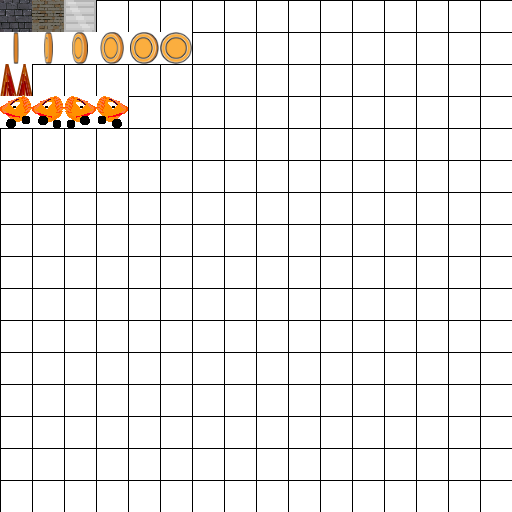
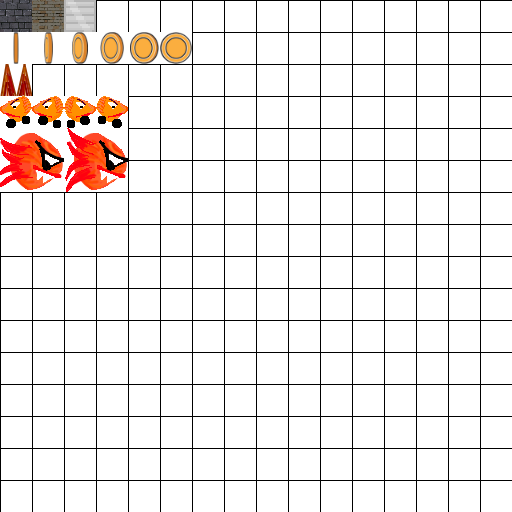
Boss added

Changed region(s): [[0.0, 0.25, 0.25, 0.375]]

diff --git a/src/main/Game.java b/src/main/Game.java
@@ -21,6 +21,7 @@ import handlers.SmartWallHandler;
 import handlers.SpikeHandler;
 import input.KeyInput;
 import objects.Block;
+import objects.Boss;
 import objects.Camera;
 import objects.Coin;
 import objects.Enemy;
@@ -40,6 +41,7 @@ public class Game extends Canvas implements Runnable
 	private BufferedImageLoader loader;
 	private KeyInput keyInput;
 	private Player player;
+	private Boss boss;
 	private BlockHandler blockHandler;
 	private CoinsHandler coinsHandler;
 	private CollisionHandler collisionHandler;
@@ -72,9 +74,10 @@ public class Game extends Canvas implements Runnable
 	}
 	
 	private void init()
-	{						
-			
-		player = new Player(70, 1250);
+	{									
+		//player = new Player(70, 1250);
+		player = new Player(55 * 32, 74 * 32);
+		boss = new Boss(42 * 32, 85 * 32, textures);
 		camera = new Camera(0, 0);
 		blockHandler = new BlockHandler();
 		coinsHandler = new CoinsHandler();
@@ -82,7 +85,7 @@ public class Game extends Canvas implements Runnable
 		spikeHandler = new SpikeHandler();
 		enemiesHandler = new EnemiesHandler();
 		smartWallHandler = new SmartWallHandler();
-		collisionHandler = new CollisionHandler(player, blockHandler, coinsHandler, bHandler, spikeHandler, 
+		collisionHandler = new CollisionHandler(player, boss, blockHandler, coinsHandler, bHandler, spikeHandler, 
 				enemiesHandler, smartWallHandler);
 
 		loader = new BufferedImageLoader();		
@@ -136,6 +139,7 @@ public class Game extends Canvas implements Runnable
 		{	
 			keyInput.tick(player, bHandler);
 			player.tick();
+			boss.tick();
 			camera.tick(player);			
 			hud.tick(player.getCoinsCollected(), player.getHealth());
 			coinsHandler.tick();
@@ -169,6 +173,7 @@ public class Game extends Canvas implements Runnable
 		g2d.translate(camera.getX(), camera.getY());
 		
 		player.render(g);
+		boss.render(g);
 		blockHandler.render(g);
 		coinsHandler.render(g);
 		bHandler.render(g);

diff --git a/src/handlers/CollisionHandler.java b/src/handlers/CollisionHandler.java
@@ -1,6 +1,7 @@
 package handlers;
 
 import objects.Block;
+import objects.Boss;
 import objects.Coin;
 import objects.Player;
 import objects.SmartWall;
@@ -8,6 +9,7 @@ import objects.SmartWall;
 public class CollisionHandler 
 {
 	private Player p;
+	private Boss boss;
 	private BlockHandler bl;
 	private CoinsHandler cl;
 	private BulletHandler bhl;
@@ -18,9 +20,10 @@ public class CollisionHandler
 	private Block block;
 	private Coin coin;
 	
-	public CollisionHandler(Player p, BlockHandler bl, CoinsHandler cl, BulletHandler bhl, SpikeHandler sh, EnemiesHandler eh, SmartWallHandler swh)
+	public CollisionHandler(Player p, Boss boss, BlockHandler bl, CoinsHandler cl, BulletHandler bhl, SpikeHandler sh, EnemiesHandler eh, SmartWallHandler swh)
 	{
 		this.p = p;
+		this.boss = boss;
 		this.bl = bl;
 		this.cl = cl;
 		this.bhl = bhl;
@@ -53,6 +56,9 @@ public class CollisionHandler
 
 			if(p.getBoundsRight().intersects(block.getBounds()))
 				p.setX(block.getX() - p.getWidth());
+			
+			if(boss.getBounds().intersects(block.getBounds()))
+				boss.setVelY(boss.getVelY() * (-1));
 			
 			for(int j = 0; j < bhl.bullets.size(); j++)
 			{

diff --git a/src/objects/Boss.java b/src/objects/Boss.java
@@ -1,0 +1,59 @@
+package objects;
+
+import java.awt.Color;
+import java.awt.Graphics;
+import java.awt.Rectangle;
+
+import graphics.Animation;
+import graphics.Textures;
+
+public class Boss 
+{
+	private float x, y, velY;
+	private int health;
+	private int size;
+	private Textures t;
+	private Animation animation;
+	
+	public Boss(float x, float y, Textures t)
+	{
+		this.x = x;
+		this.y =y;
+		this.t = t;
+		
+		velY = 1.5f;
+		health = 1000;
+		size = 64;
+		
+		animation = new Animation(4, t.bossTiles[0], t.bossTiles[1]);
+	}
+	
+	public void tick()
+	{
+		y += velY;
+		
+		animation.runAnimation();
+	}
+	
+	public void render(Graphics g)
+	{
+//		g.setColor(Color.red);
+//		g.fillRect((int)x, (int)y, size, size);
+		animation.drawAnimation(g, (int)x, (int)y);
+	}
+	
+	public Rectangle getBounds()
+	{
+		return new Rectangle((int)x, (int)y, size / 2, size);
+	}
+
+	public float getVelY() 
+	{
+		return velY;
+	}
+
+	public void setVelY(float velY) 
+	{
+		this.velY = velY;
+	}
+}

diff --git a/src/graphics/Textures.java b/src/graphics/Textures.java
@@ -11,6 +11,7 @@ public class Textures
 	public BufferedImage[] blockTiles = new BufferedImage[3];
 	public BufferedImage[] coinTiles = new BufferedImage[6];
 	public BufferedImage[] enemyTiles = new BufferedImage[4];
+	public BufferedImage[] bossTiles = new BufferedImage[2];
 	public BufferedImage spikes = null;
 	
 	
@@ -46,6 +47,9 @@ public class Textures
 		enemyTiles[1] = blockSheet.grabImage(2, 4, 32, 32);	// velX < 0
 		enemyTiles[2] = blockSheet.grabImage(3, 4, 32, 32); // velX > 0
 		enemyTiles[3] = blockSheet.grabImage(4, 4, 32, 32); // velX > 0
+		
+		bossTiles[0] = blockSheet.grabImage(1, 3, 64, 64);
+		bossTiles[1] = blockSheet.grabImage(2, 3, 64, 64);
 		
 		playerTiles[0] = playerSheet.grabImage(1, 1, 24, 48); // Steady velX > 0
 		playerTiles[1] = playerSheet.grabImage(2, 1, 24, 48); // Steady velX < 0
